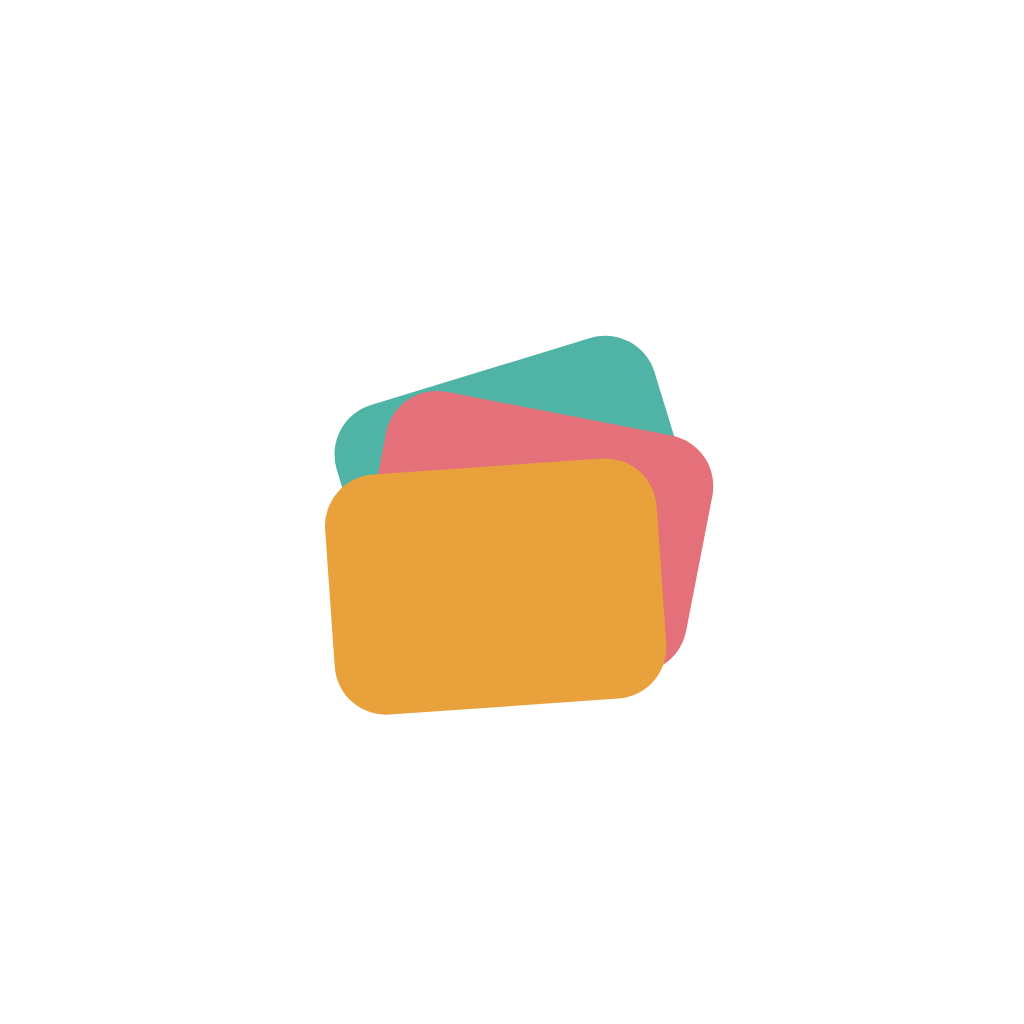
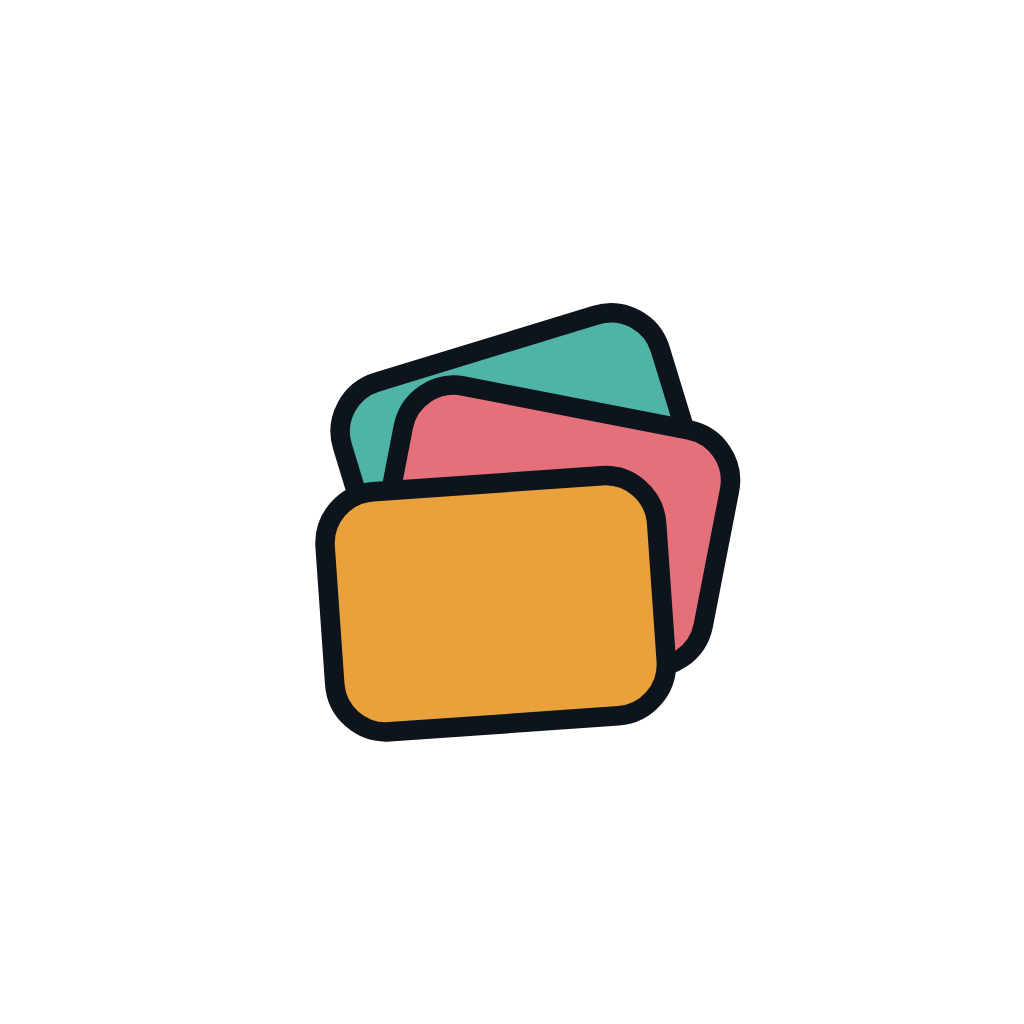
Il marchio prende il solco, e i cartoncini si sfalsano per reggerlo
Fra un cartoncino e l'altro corre ora un vuoto largo 3,4 unità su 100:
senza, i tre si toccavano e il mucchio si leggeva come una macchia a tre
colori invece che come tre oggetti appoggiati.

Il solco però si mangia proprio la parte che si vede di quelli dietro,
che sono già fettine sottili. Per questo i due dietro sono sfalsati di
metà in più: quello davanti resta fermo e gli altri due scivolano nella
direzione in cui già stanno, tanto che ogni fettina diventa più larga del
solco che la separa. Sotto quella misura il solco toglie più di quanto
dia; sopra, il mucchio si apre a ventaglio e non è più una pila. Le due
cose vanno insieme e vanno cambiate insieme.

Sui file a colori il solco è il contorno del colore del fondo dipinto su
ogni cartoncino: funziona anche sulle piastrelle trasparenti, che stanno
comunque sopra lo stesso blu dichiarato in app.json. Sull'icona delle
notifiche invece non c'è niente da dipingere — è bianca su trasparente —
e il vuoto dev'essere un buco vero: quella si genera da logo-notifica.html
bucando su tela, perché in SVG le maschere rendevano solchi molto più
larghi del dovuto.

Changed region(s): [[0.2812, 0.2812, 0.7188, 0.75]]

diff --git a/src/components/Logo.tsx b/src/components/Logo.tsx
@@ -18,19 +18,34 @@ import { useTheme } from '@/theme/theme';
  * file dell'icona dell'app: cambiando il disegno qui va cambiato anche
  * lì e vanno rifatti i PNG (le istruzioni sono in assets/README.md).
  */
-export function Logo({ size = 56, colors: override }: { size?: number; colors?: [string, string, string] }) {
+export function Logo({
+  size = 56,
+  colors: override,
+  ground,
+}: {
+  size?: number;
+  colors?: [string, string, string];
+  /** Il colore dietro al marchio, che è anche quello del vuoto fra i
+   * cartoncini. Va passato se il marchio non sta sul fondo dell'app,
+   * altrimenti i solchi si vedrebbero del colore sbagliato. */
+  ground?: string;
+}) {
   const { colors } = useTheme();
   // Dietro, in mezzo, davanti.
   const [dietro, mezzo, davanti] = override ?? [colors.teal, colors.coral, colors.amber];
+  const vuoto = ground ?? colors.bg;
 
   return (
     <Svg width={size} height={size} viewBox="0 0 100 100">
       {/* Lo spostamento del gruppo serve a centrare il mucchio a occhio:
           i tre cartoncini non sono simmetrici, e lasciati dove cadono
-          pesavano in basso a destra dentro il riquadro. */}
-      <G transform="translate(-2 -2)">
-        <Rect x="22" y="30" width="58" height="42" rx="9" fill={dietro} transform="rotate(-17 40 44)" />
-        <Rect x="22" y="30" width="58" height="42" rx="9" fill={mezzo} transform="translate(4 6) rotate(11 60 56)" />
+          pesavano in basso a destra dentro il riquadro.
+          Il contorno del colore del fondo apre un solco fra un cartoncino
+          e l'altro: a quel punto il mucchio si legge come tre oggetti
+          appoggiati invece che come una macchia a tre colori. */}
+      <G transform="translate(-2 1)" stroke={vuoto} strokeWidth={3.4} strokeLinejoin="round">
+        <Rect x="22" y="30" width="58" height="42" rx="9" fill={dietro} transform="translate(1 -7) rotate(-17 40 44)" />
+        <Rect x="22" y="30" width="58" height="42" rx="9" fill={mezzo} transform="translate(7 2) rotate(11 60 56)" />
         <Rect x="22" y="30" width="58" height="42" rx="9" fill={davanti} transform="translate(-2 14) rotate(-4 50 50)" />
       </G>
     </Svg>

diff --git a/assets/logo-notifica.html b/assets/logo-notifica.html
@@ -1,0 +1,37 @@
+<!doctype html><html><head><meta charset="utf-8"><style>
+ html,body{margin:0;padding:0;width:96px;height:96px;overflow:hidden;background:transparent}
+ canvas{display:block}
+</style></head><body><canvas id="c" width="96" height="96"></canvas>
+<script>
+// Android disegna questa icona in bianco pieno: il vuoto fra i cartoncini
+// non si può dipingere, va bucato. Sulla tela si buca davvero con
+// destination-out, che è la stessa cosa che sul fondo colorato ottiene il
+// contorno del colore dello sfondo.
+const S = 96, LATO = 0.84 * S, K = LATO / 100, OFF = (S - LATO) / 2;
+const ctx = document.getElementById('c').getContext('2d');
+ctx.translate(OFF, OFF); ctx.scale(K, K);
+ctx.translate(-2, 1);                         // centratura ottica del mucchio
+
+const CARTE = [
+  { tx: 1,  ty: -7, rot: -17, cx: 40, cy: 44 },   // dietro
+  { tx: 7,  ty: 2,  rot: 11,  cx: 60, cy: 56 },   // in mezzo
+  { tx: -2, ty: 14, rot: -4,  cx: 50, cy: 50 },   // davanti
+];
+
+function traccia(c) {
+  ctx.save();
+  ctx.translate(c.tx, c.ty);
+  ctx.translate(c.cx, c.cy); ctx.rotate(c.rot * Math.PI / 180); ctx.translate(-c.cx, -c.cy);
+  ctx.beginPath(); ctx.roundRect(22, 30, 58, 42, 9);
+  ctx.restore();
+}
+function disegna(c) { ctx.globalCompositeOperation = 'source-over'; ctx.fillStyle = '#fff'; traccia(c); ctx.fill(); }
+function buca(c)    { ctx.globalCompositeOperation = 'destination-out'; ctx.lineWidth = 3.4; ctx.lineJoin = 'round';
+                      traccia(c); ctx.fill(); ctx.stroke(); }
+
+disegna(CARTE[0]);
+buca(CARTE[1]); buca(CARTE[2]);
+disegna(CARTE[1]);
+buca(CARTE[2]);
+disegna(CARTE[2]);
+</script></body></html>

diff --git a/assets/README.md b/assets/README.md
@@ -10,6 +10,35 @@ le stesse rotazioni e gli stessi spostamenti, sono ripetuti in
 `src/components/Logo.tsx`, che è la versione usata *dentro* l'app (schermata di
 accesso): se si cambia il disegno vanno cambiati entrambi, e vanno rigenerati i PNG.
 
+## Il solco, e perché i cartoncini sono sfalsati così
+
+Fra un cartoncino e l'altro corre un **solco** largo 3,4 unità (su 100): senza, i tre
+si toccano e il mucchio si legge come una macchia a tre colori invece che come tre
+oggetti appoggiati.
+
+Il solco però si mangia proprio la parte che si vede di quelli dietro, che sono già
+fettine sottili. Per questo i due cartoncini di dietro sono **sfalsati di metà in più**
+rispetto al disegno originale: il cartoncino davanti resta fermo e gli altri due
+scivolano nella direzione in cui già stanno, tanto che ogni fettina diventa più larga
+del solco che la separa. Sotto quella misura il solco toglie più di quanto dia, sopra
+il mucchio si apre a ventaglio e non è più una pila.
+
+Le due cose vanno insieme: **chi cambia lo spessore del solco deve rivedere lo
+scarto**, altrimenti si torna al problema di partenza.
+
+## Due modi di ottenere lo stesso solco
+
+Sui file a colori il solco è il **contorno del colore del fondo**, dipinto su ogni
+cartoncino: quello davanti copre un filo di quello dietro. Funziona perché anche le
+piastrelle a fondo trasparente stanno comunque sopra lo stesso blu, dichiarato in
+`app.json` — **cambiando quei colori vanno rigenerati i PNG**, o i solchi resteranno
+del blu vecchio.
+
+Sull'icona delle notifiche non si può dipingere niente: è bianca su trasparente, e il
+solco dev'essere un buco vero. Quella si genera da `logo-notifica.html`, che disegna
+il marchio su una tela bucando con `destination-out`. È lo stesso disegno, ottenuto
+nell'unico modo che su fondo trasparente funziona.
+
 ## I quattro file
 
 | File | Misura | Fondo | A cosa serve |
@@ -18,6 +47,7 @@ accesso): se si cambia il disegno vanno cambiati entrambi, e vanno rigenerati i 
 | `adaptive-icon.png` | 1024 | trasparente | il livello davanti dell'icona Android. Il colore dietro lo mette `app.json`. Il marchio occupa il 56% della tela, quindi resta dentro il 66% centrale che Android non ritaglia con nessuna delle sue maschere. |
 | `favicon.png` | 64 | pieno `#0E141B` | la versione web. |
 | `splash.png` | 1024 | trasparente | la schermata di avvio, che la mostra centrata (`resizeMode: contain`) sul colore dichiarato in `app.json`. |
+| `notification-icon.png` | 96 | trasparente | la sagoma bianca che Android mette nella barra di stato. Generata da `logo-notifica.html`, non dall'SVG. |
 
 ## Rigenerarli
 
